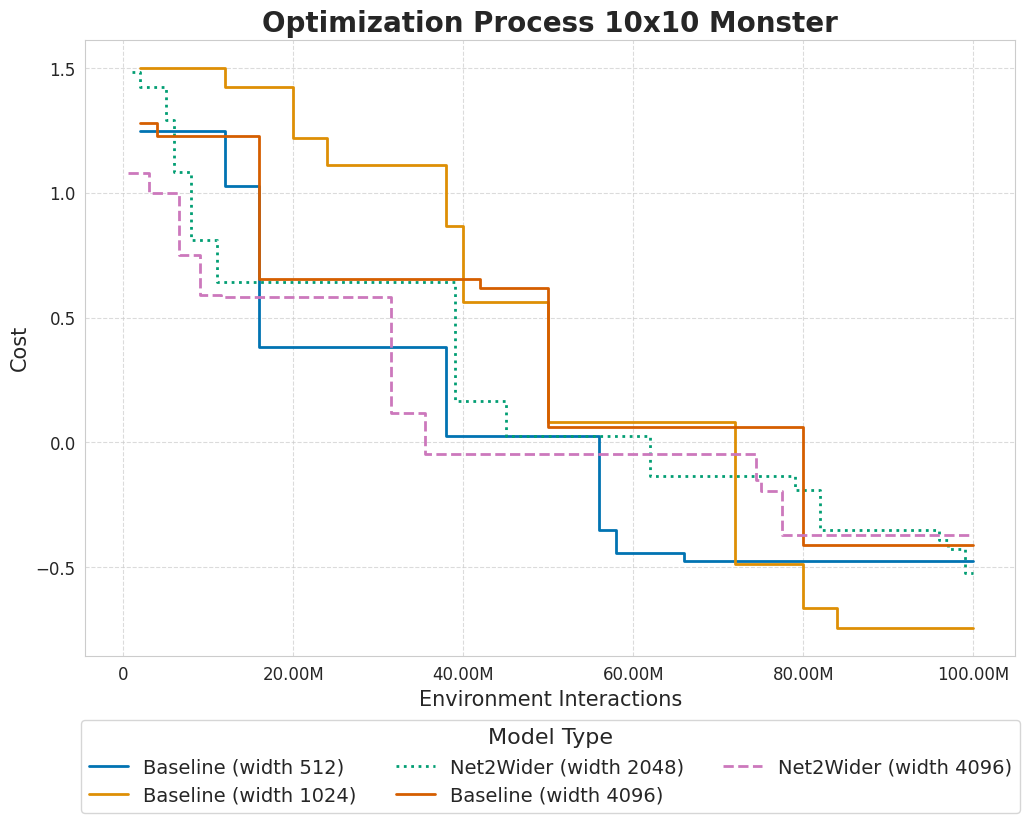
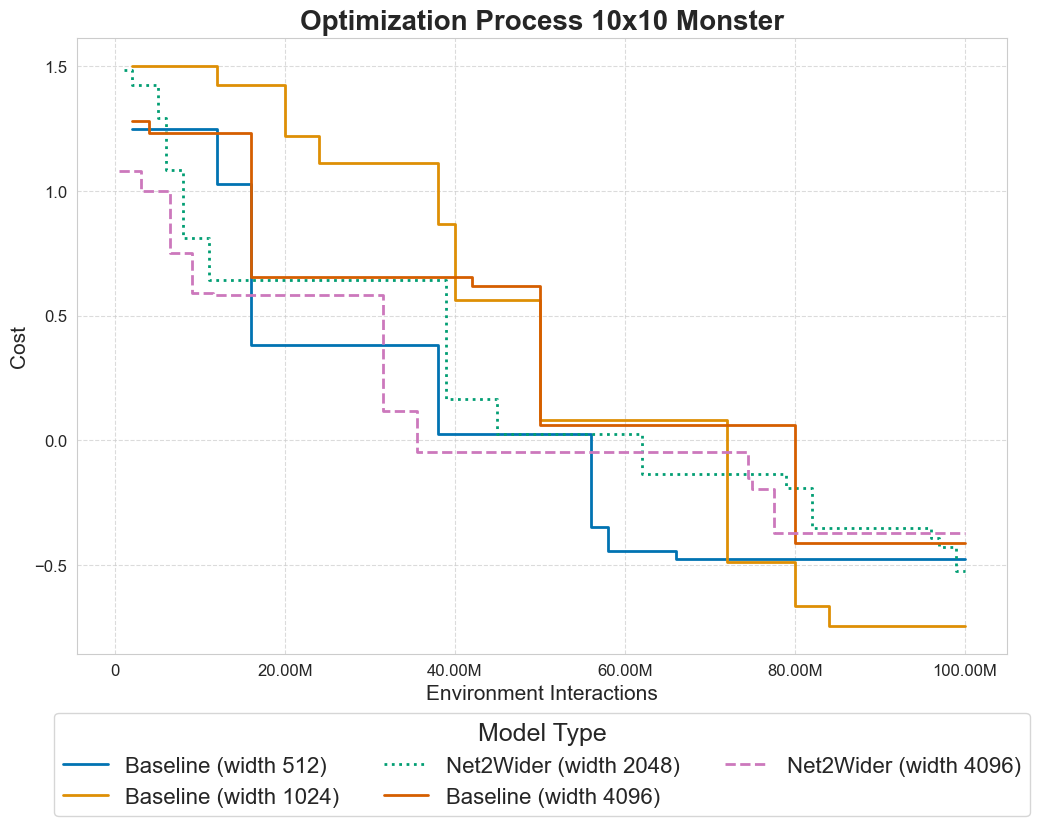
Update plot sctipts

diff --git a/plotting/minihack/difficulty_increases/incumbent_training_process/incumbent_training_process.py b/plotting/minihack/difficulty_increases/incumbent_training_process/incumbent_training_process.py
@@ -72,11 +72,11 @@ def plot_incumbent_interactions_2_layers():
     for timestep in range(500000, 2000000, 500000):
         plt.axvline(x=timestep, color="black", linestyle="--", alpha=0.5)
 
-    plt.title("Optimization Process - Ant-v4", fontsize=18, fontweight="bold")
+    plt.title("Optimization Process - Ant-v4", fontsize=20, fontweight="bold")
     plt.xlabel("Environment Interactions", fontsize=14)
     plt.ylabel("Episode Return", fontsize=14)
 
-    plt.legend(title="Model Type", fontsize=12, title_fontsize=14, loc="center", bbox_to_anchor=(0.5, -0.16), ncol=3)
+    plt.legend(title="Model Type", fontsize=12, title_fontsize=18, loc="center", bbox_to_anchor=(0.5, -0.16), ncol=3)
     plt.grid(True, linestyle="--", alpha=0.7)
 
     plt.savefig("plotting/minihack/difficulty_increases/incumbent_training_process/incumbent_training_process_2_layers", bbox_inches="tight")
@@ -84,7 +84,10 @@ def plot_incumbent_interactions_2_layers():
 
 def plot_incumbent_process_4_layers_mid():
     database_name = "fehring_growing_nn_new_seeded"
-    baseline_experiment_ids = {"Baseline (4 layers); end": 3, "Baseline (4 layer); mid": 2,}
+    baseline_experiment_ids = {
+        "Baseline (4 layers); end": 3,
+        "Baseline (4 layer); mid": 2,
+    }
 
     appraoch_experiment_ids = {"Net2Deeper (4 Layers); end": 4}
 
@@ -106,11 +109,11 @@ def plot_incumbent_process_4_layers_mid():
     for timestep in range(500000, 2000000, 500000):
         plt.axvline(x=timestep, color="black", linestyle="--", alpha=0.5)
 
-    plt.title("Optimization Process - Ant-v4", fontsize=18, fontweight="bold")
+    plt.title("Optimization Process - Ant-v4", fontsize=20, fontweight="bold")
     plt.xlabel("Environment Interactions", fontsize=14)
     plt.ylabel("Episode Return", fontsize=14)
 
-    plt.legend(title="Model Type", fontsize=12, title_fontsize=14, loc="center", bbox_to_anchor=(0.5, -0.16), ncol=3)
+    plt.legend(title="Model Type", fontsize=12, title_fontsize=18, loc="center", bbox_to_anchor=(0.5, -0.16), ncol=3)
     plt.grid(True, linestyle="--", alpha=0.7)
 
     plt.savefig("plotting/minihack/difficulty_increases/incumbent_training_process/incumbent_training_process_4_layers_mid", bbox_inches="tight")
@@ -118,7 +121,7 @@ def plot_incumbent_process_4_layers_mid():
 
 def plot_incumbent_process_4_layers_end():
     database_name = "fehring_growing_nn_new_seeded"
-    baseline_experiment_ids = { "Baseline (1 layer); end": 6, "Baseline (4 layers); end": 3}
+    baseline_experiment_ids = {"Baseline (1 layer); end": 6, "Baseline (4 layers); end": 3}
 
     appraoch_experiment_ids = {"Net2Deeper (4 Layers); end": 2}
 
@@ -140,11 +143,11 @@ def plot_incumbent_process_4_layers_end():
     for timestep in range(500000, 2000000, 500000):
         plt.axvline(x=timestep, color="black", linestyle="--", alpha=0.5)
 
-    plt.title("Optimization Process - Ant-v4", fontsize=18, fontweight="bold")
+    plt.title("Optimization Process - Ant-v4", fontsize=20, fontweight="bold")
     plt.xlabel("Environment Interactions", fontsize=14)
     plt.ylabel("Episode Return", fontsize=14)
 
-    plt.legend(title="Model Type", fontsize=12, title_fontsize=14, loc="center", bbox_to_anchor=(0.5, -0.16), ncol=3)
+    plt.legend(title="Model Type", fontsize=12, title_fontsize=18, loc="center", bbox_to_anchor=(0.5, -0.16), ncol=3)
     plt.grid(True, linestyle="--", alpha=0.7)
 
     plt.savefig("plotting/minihack/difficulty_increases/incumbent_training_process/incumbent_training_process_4_layers_end", bbox_inches="tight")

diff --git a/plotting/minihack/net2wider/incumbent_training_process/incumbent_training_process.py b/plotting/minihack/net2wider/incumbent_training_process/incumbent_training_process.py
@@ -129,7 +129,6 @@ def plot_10x10_random_full():
     sns.lineplot(data=net2wider_width_2_training_process_concat_dataframe, x="timestep", y="episode_reward", label="Net2Wider Width 1024", linestyle="dotted")
     sns.lineplot(data=baseline_width_4_training_process_data, x="timestep", y="episode_reward", label="Constant Width 4096", linestyle="solid")
     sns.lineplot(data=net2wider_width_4_training_process_concat_dataframe, x="timestep", y="episode_reward", label="Net2Wider Width 4096", linestyle="dashed")
-    
 
     # Add vline every 500000 timesteps
     for i in range(1, int(net2wider_width_4_training_process_concat_dataframe["timestep"].max() / 500000)):
@@ -139,7 +138,7 @@ def plot_10x10_random_full():
     plt.xlabel("Timestep", fontsize=15)
     plt.ylabel("IQM of Evaluation Episode Returns", fontsize=15)
 
-    plt.legend(title="Model Type", fontsize=14, title_fontsize=16, loc="center", bbox_to_anchor=(0.5, -0.18), ncol=3)
+    plt.legend(title="Model Type", fontsize=16, title_fontsize=18, loc="center", bbox_to_anchor=(0.5, -0.18), ncol=3)
 
     # Add grid for better readability
     plt.grid(True, linestyle="--", alpha=0.7)
@@ -166,7 +165,7 @@ def plot_10x10_random_width2():
     plt.xlabel("Timestep", fontsize=15)
     plt.ylabel("IQM of Evaluation Episode Returns", fontsize=15)
 
-    plt.legend(title="Model Type", fontsize=14, title_fontsize=16, loc="center", bbox_to_anchor=(0.5, -0.18), ncol=3)
+    plt.legend(title="Model Type", fontsize=16, title_fontsize=18, loc="center", bbox_to_anchor=(0.5, -0.18), ncol=3)
     plt.grid(True, linestyle="--", alpha=0.7)
 
     plt.show()
@@ -191,7 +190,7 @@ def plot_10x10_random_width4():
     plt.xlabel("Timestep", fontsize=15)
     plt.ylabel("IQM of Evaluation Episode Returns", fontsize=15)
 
-    plt.legend(title="Model Type", fontsize=14, title_fontsize=16, loc="center", bbox_to_anchor=(0.5, -0.18), ncol=3)
+    plt.legend(title="Model Type", fontsize=16, title_fontsize=18, loc="center", bbox_to_anchor=(0.5, -0.18), ncol=3)
     plt.grid(True, linestyle="--", alpha=0.7)
 
     plt.show()
@@ -223,7 +222,7 @@ def plot_10x10_monster_full():
     plt.xlabel("Timestep", fontsize=15)
     plt.ylabel("IQM of Evaluation Episode Returns", fontsize=15)
 
-    plt.legend(title="Model Type", fontsize=14, title_fontsize=16, loc="center", bbox_to_anchor=(0.5, -0.18), ncol=3)
+    plt.legend(title="Model Type", fontsize=16, title_fontsize=18, loc="center", bbox_to_anchor=(0.5, -0.18), ncol=3)
 
     # Add grid for better readability
     plt.grid(True, linestyle="--", alpha=0.7)
@@ -250,7 +249,7 @@ def plot_10x10_monster_width2():
     plt.xlabel("Timestep", fontsize=15)
     plt.ylabel("IQM of Evaluation Episode Returns", fontsize=15)
 
-    plt.legend(title="Model Type", fontsize=14, title_fontsize=16, loc="center", bbox_to_anchor=(0.5, -0.18), ncol=3)
+    plt.legend(title="Model Type", fontsize=16, title_fontsize=18, loc="center", bbox_to_anchor=(0.5, -0.18), ncol=3)
     plt.grid(True, linestyle="--", alpha=0.7)
 
     plt.show()
@@ -275,7 +274,7 @@ def plot_10x10_monster_width4():
     plt.xlabel("Timestep", fontsize=15)
     plt.ylabel("IQM of Evaluation Episode Returns", fontsize=15)
 
-    plt.legend(title="Model Type", fontsize=14, title_fontsize=16, loc="center", bbox_to_anchor=(0.5, -0.18), ncol=3)
+    plt.legend(title="Model Type", fontsize=16, title_fontsize=18, loc="center", bbox_to_anchor=(0.5, -0.18), ncol=3)
     plt.grid(True, linestyle="--", alpha=0.7)
 
     plt.show()

diff --git a/plotting/minihack/net2deeper/incumbent_training_process/incumbent_training_process.py b/plotting/minihack/net2deeper/incumbent_training_process/incumbent_training_process.py
@@ -135,7 +135,7 @@ def plot_10x10_random_full():
     plt.xlabel("Timestep", fontsize=15)
     plt.ylabel("IQM of Evaluation Epsiode Return", fontsize=15)
 
-    plt.legend(title="Model Type", fontsize=14, title_fontsize=16, loc="center", bbox_to_anchor=(0.5, -0.18), ncol=3)
+    plt.legend(title="Model Type", fontsize=16, title_fontsize=18, loc="center", bbox_to_anchor=(0.5, -0.18), ncol=3)
 
     # Add grid for better readability
     plt.grid(True, linestyle="--", alpha=0.7)
@@ -162,7 +162,7 @@ def plot_10x10_random_depth2():
     plt.xlabel("Timestep", fontsize=15)
     plt.ylabel("IQM of Evaluation Epsiode Return", fontsize=15)
 
-    plt.legend(title="Model Type", fontsize=14, title_fontsize=16, loc="center", bbox_to_anchor=(0.5, -0.18), ncol=3)
+    plt.legend(title="Model Type", fontsize=16, title_fontsize=18, loc="center", bbox_to_anchor=(0.5, -0.18), ncol=3)
     plt.grid(True, linestyle="--", alpha=0.7)
 
     plt.show()
@@ -187,7 +187,7 @@ def plot_10x10_random_depth4():
     plt.xlabel("Timestep", fontsize=15)
     plt.ylabel("IQM of Evaluation Epsiode Return", fontsize=15)
 
-    plt.legend(title="Model Type", fontsize=14, title_fontsize=16, loc="center", bbox_to_anchor=(0.5, -0.18), ncol=3)
+    plt.legend(title="Model Type", fontsize=16, title_fontsize=18, loc="center", bbox_to_anchor=(0.5, -0.18), ncol=3)
     plt.grid(True, linestyle="--", alpha=0.7)
 
     plt.show()
@@ -215,11 +215,11 @@ def plot_10x10_monster_full():
     for i in range(1, int(net2deeper_depth_4_training_process_concat_dataframe["timestep"].max() / 500000)):
         plt.axvline(x=i * 500000, color="gray", linestyle="--")
 
-    plt.title("Incumbent Training Process - Minihack Room Monster 10x10", fontsize=18, fontweight="bold")
+    plt.title("Incumbent Training Process - Minihack Room Monster 10x10", fontsize=20, fontweight="bold")
     plt.xlabel("Timestep", fontsize=15)
     plt.ylabel("IQM of Evaluation Epsiode Return", fontsize=15)
 
-    plt.legend(title="Model Type", fontsize=14, title_fontsize=16, loc="center", bbox_to_anchor=(0.5, -0.18), ncol=3)
+    plt.legend(title="Model Type", fontsize=16, title_fontsize=18, loc="center", bbox_to_anchor=(0.5, -0.18), ncol=3)
 
     # Add grid for better readability
     plt.grid(True, linestyle="--", alpha=0.7)
@@ -246,7 +246,7 @@ def plot_10x10_monster_depth2():
     plt.xlabel("Timestep", fontsize=14)
     plt.ylabel("IQM of Evaluation Episode Returns", fontsize=14)
 
-    plt.legend(title="Model Type", fontsize=12, title_fontsize=14, loc="center", bbox_to_anchor=(0.5, -0.18), ncol=3)
+    plt.legend(title="Model Type", fontsize=12, title_fontsize=18, loc="center", bbox_to_anchor=(0.5, -0.18), ncol=3)
     plt.grid(True, linestyle="--", alpha=0.7)
 
     plt.show()
@@ -270,7 +270,7 @@ def plot_10x10_monster_depth4():
     plt.xlabel("Timestep", fontsize=15)
     plt.ylabel("IQM of Evaluation Epsiode Return", fontsize=15)
 
-    plt.legend(title="Model Type", fontsize=14, title_fontsize=16, loc="center", bbox_to_anchor=(0.5, -0.18), ncol=3)
+    plt.legend(title="Model Type", fontsize=16, title_fontsize=18, loc="center", bbox_to_anchor=(0.5, -0.18), ncol=3)
     plt.grid(True, linestyle="--", alpha=0.7)
 
     plt.show()

diff --git a/plotting/ant/overall_training_process/plot_training_process.py b/plotting/ant/overall_training_process/plot_training_process.py
@@ -54,22 +54,21 @@ def plot_one_million_interactions():
     baseline_data, appraoch_data = get_data(database_name, baseline_experiment_ids, appraoch_experiment_ids)
 
     training_process_style()
-    
 
     for approach_name, data in baseline_data.items():
         # The environment interactions column appears to be buggy
-        sns.lineplot(x="environment_interactions", y="cost", data=data, label=f"{approach_name}", drawstyle="steps-pre", linestyle='solid')
+        sns.lineplot(x="environment_interactions", y="cost", data=data, label=f"{approach_name}", drawstyle="steps-pre", linestyle="solid")
 
     line_styles = ["dashed", "dashdot"]
     line_number = 0
     for approach_name, data in appraoch_data.items():
         sns.lineplot(x="environment_interactions", y="cost", data=data, label=f"{approach_name}", drawstyle="steps-pre", linestyle=line_styles[line_number])
 
-    plt.title("Optimization Process - Ant-v4", fontsize=18, fontweight="bold")
+    plt.title("Optimization Process - Ant-v4", fontsize=20, fontweight="bold")
     plt.xlabel("Environment Interactions", fontsize=14)
     plt.ylabel("Cost", fontsize=14)
 
-    plt.legend(title="Model Type", fontsize=12, title_fontsize=14, loc="center", bbox_to_anchor=(0.5, -0.18), ncol=3)
+    plt.legend(title="Model Type", fontsize=12, title_fontsize=18, loc="center", bbox_to_anchor=(0.5, -0.18), ncol=3)
     plt.grid(True, linestyle="--", alpha=0.7)
 
     plt.ylim(-2000, 200)

diff --git a/plotting/ant/net2deeper/incumbent_training_process.py b/plotting/ant/net2deeper/incumbent_training_process.py
@@ -71,11 +71,11 @@ def plot_incumbent_interactions_4_layers():
     for timestep in range(500000, 2000000, 500000):
         plt.axvline(x=timestep, color="black", linestyle="--", alpha=0.5)
 
-    plt.title("Optimization Process - Ant-v4", fontsize=18, fontweight="bold")
+    plt.title("Optimization Process - Ant-v4", fontsize=20, fontweight="bold")
     plt.xlabel("Environment Interactions", fontsize=14)
     plt.ylabel("Cost", fontsize=14)
 
-    plt.legend(title="Model Type", fontsize=12, title_fontsize=14, loc="center", bbox_to_anchor=(0.5, -0.18), ncol=3)
+    plt.legend(title="Model Type", fontsize=12, title_fontsize=18, loc="center", bbox_to_anchor=(0.5, -0.18), ncol=3)
     plt.grid(True, linestyle="--", alpha=0.7)
 
     plt.savefig("plotting/ant/net2deeper/incumbent_training_process_4_layers", bbox_inches="tight")
@@ -111,7 +111,7 @@ def plot_incumbent_interactions_8_layers():
     plt.xlabel("Environment Interactions", fontsize=15)
     plt.ylabel("Cost", fontsize=15)
 
-    plt.legend(title="Model Type", fontsize=14, title_fontsize=16, loc="center", bbox_to_anchor=(0.5, -0.18), ncol=3)
+    plt.legend(title="Model Type", fontsize=16, title_fontsize=18, loc="center", bbox_to_anchor=(0.5, -0.18), ncol=3)
     plt.grid(True, linestyle="--", alpha=0.7)
 
     plt.savefig("plotting/ant/net2deeper/incumbent_training_process_8_layers", bbox_inches="tight")

diff --git a/plotting/minihack/net2deeper/monster_action_exploration/explore_monster_behaviour.py b/plotting/minihack/net2deeper/monster_action_exploration/explore_monster_behaviour.py
@@ -15,6 +15,7 @@ def calculate_n_dead_agents(rewards: Dict[int, List[float]]) -> int:
                     n_dead += 1 / 10
     return n_dead
 
+
 set_rc_params()
 
 
@@ -63,7 +64,7 @@ def plot_depth_4():
     plt.ylabel("% Dead Agents", fontsize=15)
 
     plt.title("Percentage Dead Agents, Net2Deeper Baselines Depth 4", fontsize=20, fontweight="bold")
-    plt.legend(title="Baselines", fontsize=14, title_fontsize=16, loc="center", bbox_to_anchor=(0.5, -0.18), ncol=3)
+    plt.legend(title="Baselines", fontsize=16, title_fontsize=18, loc="center", bbox_to_anchor=(0.5, -0.18), ncol=3)
     plt.grid(True, linestyle="--", alpha=0.7)
     plt.savefig("plotting/minihack/net2deeper/monster_action_exploration/dead_agents_depth_4.png", bbox_inches="tight")
 
@@ -82,7 +83,7 @@ def plot_depth_2():
     plt.ylabel("% Dead Agents", fontsize=15)
 
     plt.title("Percentage Dead Agents, Net2Deeper Baselines Depth 2", fontsize=20, fontweight="bold")
-    plt.legend(title="Baselines", fontsize=14, title_fontsize=16, loc="center", bbox_to_anchor=(0.5, -0.18), ncol=3)
+    plt.legend(title="Baselines", fontsize=16, title_fontsize=18, loc="center", bbox_to_anchor=(0.5, -0.18), ncol=3)
     plt.grid(True, linestyle="--", alpha=0.7)
     plt.savefig("plotting/minihack/net2deeper/monster_action_exploration/dead_agents_depth_2.png", bbox_inches="tight")
 

diff --git a/plotting/minihack/net2deeper/overall_training_process/plot_training_process.py b/plotting/minihack/net2deeper/overall_training_process/plot_training_process.py
@@ -101,7 +101,7 @@ def plot_10x10_random():
     plt.xlabel("Environment Interactions", fontsize=15)
     plt.ylabel("Cost", fontsize=15)
 
-    plt.legend(title="Model Type", fontsize=14, title_fontsize=16, loc="center", bbox_to_anchor=(0.5, -0.18), ncol=3)
+    plt.legend(title="Model Type", fontsize=16, title_fontsize=18, loc="center", bbox_to_anchor=(0.5, -0.18), ncol=3)
     plt.grid(True, linestyle="--", alpha=0.7)
 
     plt.savefig("plotting/minihack/net2deeper/overall_training_process/net2deeper_training_process_random.png", bbox_inches="tight")
@@ -130,7 +130,7 @@ def plot_10x10_monster():
     plt.xlabel("Environment Interactions", fontsize=15)
     plt.ylabel("Cost", fontsize=15)
 
-    plt.legend(title="Model Type", fontsize=14, title_fontsize=16, loc="center", bbox_to_anchor=(0.5, -0.18), ncol=3)
+    plt.legend(title="Model Type", fontsize=16, title_fontsize=18, loc="center", bbox_to_anchor=(0.5, -0.18), ncol=3)
     plt.grid(True, linestyle="--", alpha=0.7)
 
     plt.savefig("plotting/minihack/net2deeper/overall_training_process/net2deeper_training_process_monster.png", bbox_inches="tight")

diff --git a/plotting/minihack/net2wider/overall_training_process/plot_training_process.py b/plotting/minihack/net2wider/overall_training_process/plot_training_process.py
@@ -94,7 +94,7 @@ def plot_10x10_random():
     plt.xlabel("Environment Interactions", fontsize=15)
     plt.ylabel("Cost", fontsize=15)
 
-    plt.legend(title="Model Type", fontsize=14, title_fontsize=16, loc="center", bbox_to_anchor=(0.5, -0.18), ncol=3)
+    plt.legend(title="Model Type", fontsize=16, title_fontsize=18, loc="center", bbox_to_anchor=(0.5, -0.18), ncol=3)
     plt.grid(True, linestyle="--", alpha=0.7)
 
     plt.savefig("plotting/minihack/net2wider/overall_training_process/net2wider_training_process_random.png", bbox_inches="tight")
@@ -116,7 +116,7 @@ def plot_10x10_monster():
     plt.xlabel("Environment Interactions", fontsize=15)
     plt.ylabel("Cost", fontsize=15)
 
-    plt.legend(title="Model Type", fontsize=14, title_fontsize=16, loc="center", bbox_to_anchor=(0.5, -0.18), ncol=3)
+    plt.legend(title="Model Type", fontsize=16, title_fontsize=18, loc="center", bbox_to_anchor=(0.5, -0.18), ncol=3)
     plt.grid(True, linestyle="--", alpha=0.7)
 
     plt.savefig("plotting/minihack/net2wider/overall_training_process/net2wider_training_process_monster.png", bbox_inches="tight")

diff --git a/plotting/ant/net2deeper/plot_action_sizes.py b/plotting/ant/net2deeper/plot_action_sizes.py
@@ -49,7 +49,7 @@ def plot_incumbent_interactions_8_layers():
     legend_labels = ["Net2Deeper (8 layers)", "Average Action Size"]
     # second value in the color palette
     legend_items = [plt.Line2D([0], [0], color="blue", linestyle="--"), plt.Line2D([0], [0], color=action_size_color, linestyle=":")]
-    plt.legend(legend_items, legend_labels, fontsize=14, title_fontsize=16, loc="center", bbox_to_anchor=(0.5, -0.18), ncol=2)
+    plt.legend(legend_items, legend_labels, fontsize=16, title_fontsize=18, loc="center", bbox_to_anchor=(0.5, -0.18), ncol=2)
     plt.grid(True, linestyle="--", alpha=0.7)
     ax = plt.gca()
     plt.xlabel("Environment Interactions", fontsize=15)

diff --git a/plotting/minihack/difficulty_increases/optimization_process/plot_training_process.py b/plotting/minihack/difficulty_increases/optimization_process/plot_training_process.py
@@ -69,7 +69,7 @@ def plot_optimization_process():
     plt.xlabel("Environment Interactions", fontsize=15)
     plt.ylabel("Cost", fontsize=15)
 
-    plt.legend(title="Model Type", fontsize=14, title_fontsize=16, loc="center", bbox_to_anchor=(0.5, -0.18), ncol=3)
+    plt.legend(title="Model Type", fontsize=16, title_fontsize=18, loc="center", bbox_to_anchor=(0.5, -0.18), ncol=3)
     plt.grid(True, linestyle="--", alpha=0.7)
 
     plt.savefig("plotting/minihack/difficulty_increases/optimization_process/training_process.png", bbox_inches="tight")
